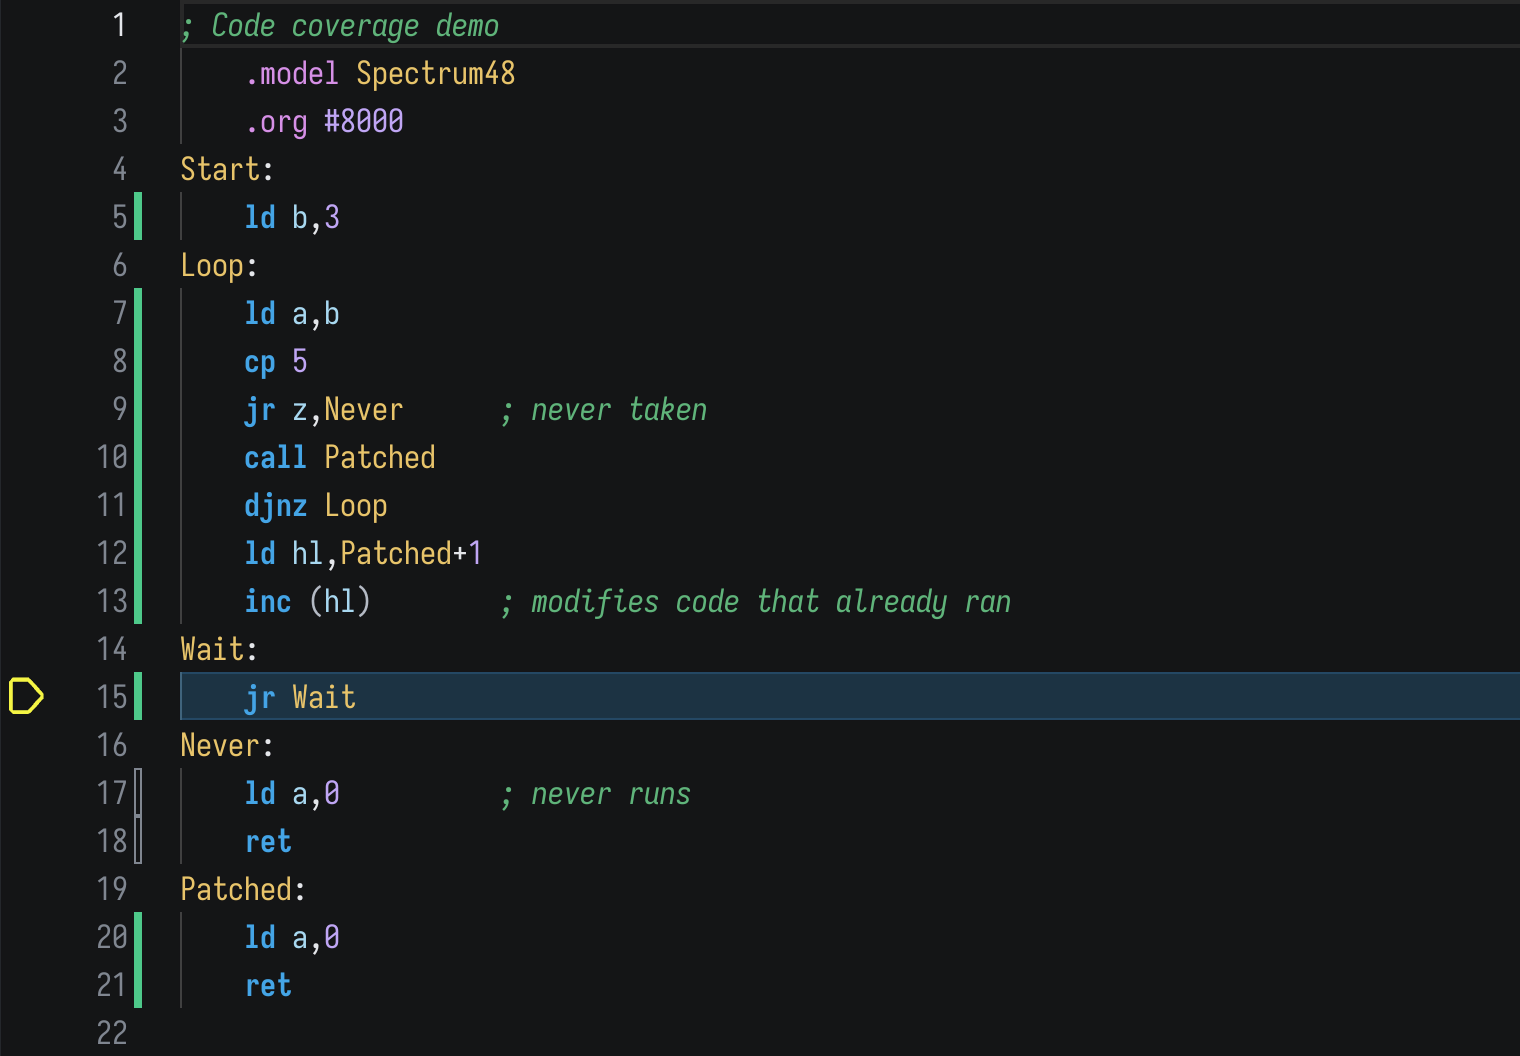
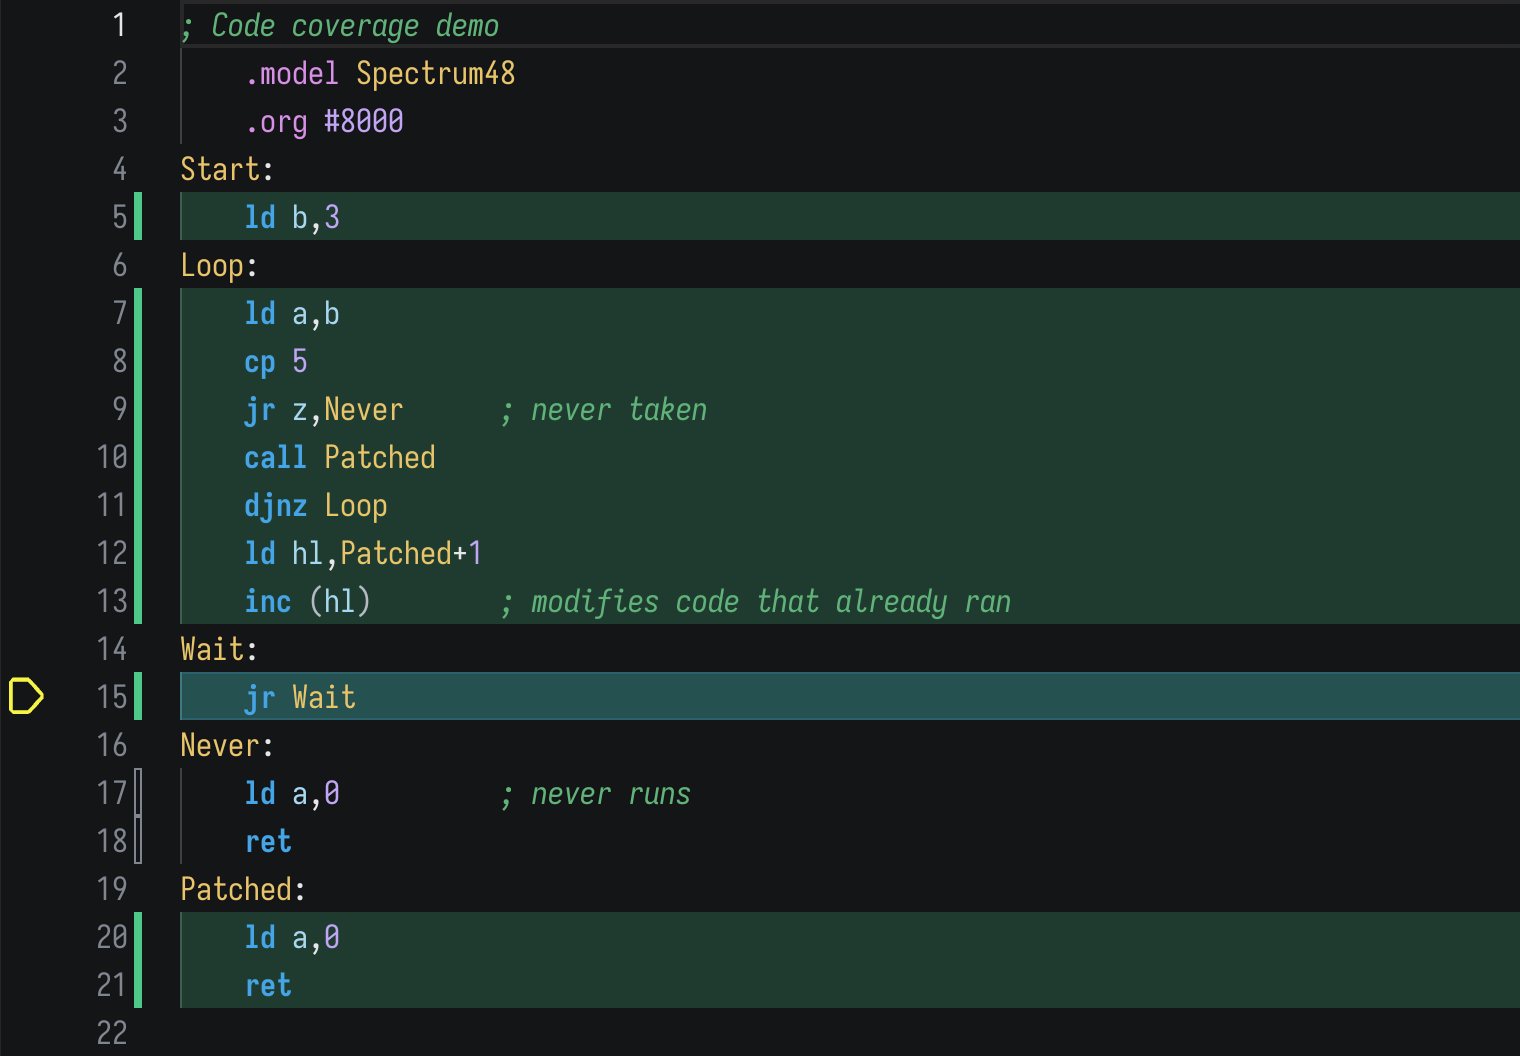
Add the advanced debugging switch to the Settings dialog (#1643)
Settings › Debugging gets an "Advanced debugging" switch for the
features.advancedDebugging user setting (the one `set -u` writes). The
main process still reads it once at startup, so after a change the row's
help text says Klive must restart. "Tint covered source lines" and
"Profile hints in the editor" now default to on, so every switch of the
group is on by default.

The guides point to the new row, and the code coverage editor shot is
regenerated with the tint (its recipe keeps the profile hints out of it).

diff --git a/src/common/settings/settings-pages.ts b/src/common/settings/settings-pages.ts
@@ -10,7 +10,11 @@
  *    `set:` UI action of the same key (`MainApi.runUiAction`, `src/main/ui-actions.ts`).
  * File rows (ROMs, the key mapping) show a value and offer buttons, which run UI actions.
  */
-import { hasMachineFeature, isAdvancedDebuggingEnabled } from "@common/features/advancedDebugging";
+import {
+  hasMachineFeature,
+  isAdvancedDebuggingEnabled,
+  readAdvancedDebuggingSetting
+} from "@common/features/advancedDebugging";
 import type { AppState } from "@state/AppState";
 import type { UiActionId } from "./ui-action-ids";
 import { KliveGlobalSettings } from "./setting-definitions";
@@ -166,6 +170,7 @@ export type SettingsStateKey =
   | "sp48Rom"
   | "keyMappingFile"
   | "automationEnabled"
+  | "advancedDebugging"
   | "automationLevel"
   | "basicCompiler"
   | "borielInstallation"
@@ -780,6 +785,19 @@ export const SETTINGS_ROWS: SettingsRow[] = [
     editor: "switch",
     source: setting(SETTING_IDE_BP_GROUP_BY_KIND)
   },
+  // --- The advanced-debugging switch (`@common/features/advancedDebugging`): a user setting, read once
+  // --- at startup, so a change says it waits for a restart
+  {
+    id: "advancedDebugging",
+    page: "debugging",
+    groupKey: "settings.group.advancedDebugging",
+    titleKey: "settings.debugging.advancedDebugging.title",
+    descriptionKey: "settings.debugging.advancedDebugging.description",
+    describeValue: advancedDebuggingRestartText,
+    editor: "switch",
+    source: state("advancedDebugging"),
+    defaultValue: true
+  },
   // --- Full reverse debugging (`dev/plans/REVERSE_DEBUGGING_PLAN.md` D2, D6)
   {
     id: "reverseDebugging",
@@ -1367,6 +1385,16 @@ function readSetting(appState: AppState | undefined, settingId: string): unknown
   return stored === undefined ? definition?.defaultValue : stored;
 }
 
+/**
+ * The advanced-debugging row's help text while its value differs from the one this session started
+ * with: the switch is read once, at startup, so the change waits for a restart
+ */
+function advancedDebuggingRestartText(value: unknown, appState: AppState | undefined): string | undefined {
+  if (appState?.emulatorState?.advancedDebugging === undefined) return undefined;
+  if (!!value === isAdvancedDebuggingEnabled(appState)) return undefined;
+  return t("settings.debugging.advancedDebugging.restart");
+}
+
 /** What a row shows now */
 export function readSettingsRowValue(row: SettingsRow, appState: AppState | undefined): unknown {
   if (!row.source) return undefined;
@@ -1399,6 +1427,8 @@ export function readSettingsRowValue(row: SettingsRow, appState: AppState | unde
       return appState?.keyMappingFile ?? "";
     case "automationEnabled":
       return parseAutomationSwitch(appState?.userSettings?.automation?.enabled);
+    case "advancedDebugging":
+      return readAdvancedDebuggingSetting(createSettingsReader(appState ?? ({} as AppState)));
     case "automationLevel":
       return parseAutomationLevel(appState?.userSettings?.automation?.level);
     case "basicCompiler":

diff --git a/test/settings/settings-pages.test.ts b/test/settings/settings-pages.test.ts
@@ -235,6 +235,51 @@ describe("the automation rows (`dev/plans/COMMAND_LINE_AUTOMATION_PLAN.md` D4, D
   });
 });
 
+describe("the advanced-debugging row (`@common/features/advancedDebugging`)", () => {
+  it("reads the user setting set -u writes, on while unset", () => {
+    expect(readSettingsRowValue(row("advancedDebugging"), stateOf({}))).toBe(true);
+    const off = stateOf({ userSettings: { features: { advancedDebugging: "0" } } });
+    expect(readSettingsRowValue(row("advancedDebugging"), off)).toBe(false);
+    const on = stateOf({ userSettings: { features: { advancedDebugging: "1" } } });
+    expect(readSettingsRowValue(row("advancedDebugging"), on)).toBe(true);
+  });
+
+  it("shows everywhere, as a switch that defaults to on", () => {
+    const r = row("advancedDebugging");
+    expect(r.page).toBe("debugging");
+    expect(r.editor).toBe("switch");
+    expect(r.defaultValue).toBe(true);
+    expect(isSettingsRowApplicable(r, stateOf({ emulatorState: { advancedDebugging: false } }))).toBe(true);
+  });
+
+  it("says a change waits for a restart", () => {
+    const r = row("advancedDebugging");
+    const startedOn = stateOf({ emulatorState: { advancedDebugging: true } });
+    expect(r.describeValue?.(true, startedOn)).toBeUndefined();
+    expect(r.describeValue?.(false, startedOn)).toMatch(/restart/i);
+    const startedOff = stateOf({ emulatorState: { advancedDebugging: false } });
+    expect(r.describeValue?.(true, startedOff)).toMatch(/restart/i);
+  });
+
+  it("is found by the words a user would search for", () => {
+    expect(settingsRowMatches(row("advancedDebugging"), "advanced")).toBe(true);
+    expect(settingsRowMatches(row("advancedDebugging"), "history")).toBe(true);
+  });
+});
+
+describe("the debugging switches", () => {
+  it("are all on by default", () => {
+    const debuggingSwitches = SETTINGS_ROWS.filter(
+      (r) =>
+        r.editor === "switch" &&
+        ["advancedDebugging", "reverseDebugging", "profileResetOnStart", "profileResetAfterInjection",
+          "profileCounters", "coverageLineTint", "profilerInlays"].includes(r.id)
+    );
+    expect(debuggingSwitches).toHaveLength(7);
+    for (const r of debuggingSwitches) expect(settingsRowDefault(r, undefined), r.id).toBe(true);
+  });
+});
+
 describe("the ZX Spectrum Next's real-time clock rows (`dev/ai/zxnext-rtc.md`)", () => {
   const RTC_ROWS = ["nextRtcClock", "nextRtcKeep", "nextRtcKept"];
 

diff --git a/src/main/ui-actions.ts b/src/main/ui-actions.ts
@@ -72,6 +72,7 @@ import { nextRtcForget, nextRtcSetToHost } from "./zxnext-rtc";
 import { toggleWindowRecording } from "./recording/window-recording/windowRecordingController";
 import { focusEmuWindow, getAppWindows, isIdeWindowFocused, isIdeWindowVisible, showIdeWindow } from ".";
 import { t } from "@common/i18n/i18n";
+import { ADVANCED_DEBUGGING_SETTING } from "@common/features/advancedDebugging";
 
 /** The contributor guide the Language page links to (`src/common/i18n/locales/README.md`) */
 export const TRANSLATION_GUIDE_URL =
@@ -285,6 +286,11 @@ export async function runUiAction(actionId: UiActionId, value?: unknown): Promis
     // --- D4, D7) and starts, stops or re-levels itself when they change
     case "set:automationEnabled":
       applyUserSetting(AUTOMATION_ENABLED_SETTING, value ? "1" : "0");
+      return undefined;
+    // --- The advanced-debugging switch is a user setting, the one `set -u features.advancedDebugging`
+    // --- writes; the main process reads it once, at startup (`@common/features/advancedDebugging`)
+    case "set:advancedDebugging":
+      applyUserSetting(ADVANCED_DEBUGGING_SETTING, value ? "1" : "0");
       return undefined;
     case "set:automationLevel":
       if (!(AUTOMATION_LEVELS as readonly unknown[]).includes(value)) return `Unknown automation level: ${value}`;

diff --git a/src/common/settings/setting-const.ts b/src/common/settings/setting-const.ts
@@ -46,9 +46,9 @@ export const SETTING_EMU_PROFILE_RESET_ON_START = "emuOptions.profileResetOnStar
 export const SETTING_EMU_PROFILE_RESET_AFTER_INJECTION = "emuOptions.profileResetAfterInjection";
 /** Keep execution, read and write counts as well as the flags (D2, Q1): on */
 export const SETTING_EMU_PROFILE_COUNTERS = "emuOptions.profileCounters";
-/** Tint covered source lines' background as well as marking the strip (D12): off */
+/** Tint covered source lines' background as well as marking the strip (D12): on */
 export const SETTING_IDE_COVERAGE_LINE_TINT = "ideViewOptions.coverageLineTint";
-/** The profiler's hints at each routine's first line (`dev/plans/PROFILER_PLAN.md` D15): off */
+/** The profiler's hints at each routine's first line (`dev/plans/PROFILER_PLAN.md` D15): on */
 export const SETTING_IDE_PROFILER_INLAYS = "ideViewOptions.profilerInlays";
 /** The TR-DOS ROM file the Pentagon's Beta 128 boots (`dev/plans/BETA128_TRDOS_PLAN.md` Q1): Klive cannot ship it */
 export const SETTING_EMU_TRDOS_ROM = "emuOptions.trdosRomFile";

diff --git a/src/common/i18n/translations.generated.ts b/src/common/i18n/translations.generated.ts
@@ -132,9 +132,9 @@ export const TRANSLATED_CATALOGS: Readonly<Record<string, Catalog>> = {
 
 /** How much of English each language translates, and how much of that is outdated */
 export const TRANSLATION_STATUS: Readonly<Record<string, { translated: number; total: number; outdated: number }>> = {
-  "de": { translated: 5820, total: 7108, outdated: 25 },
-  "es": { translated: 5820, total: 7108, outdated: 25 },
-  "hu": { translated: 5820, total: 7108, outdated: 25 },
-  "pt-BR": { translated: 5820, total: 7108, outdated: 25 },
-  "pt-PT": { translated: 5820, total: 7108, outdated: 25 }
+  "de": { translated: 5820, total: 7112, outdated: 25 },
+  "es": { translated: 5820, total: 7112, outdated: 25 },
+  "hu": { translated: 5820, total: 7112, outdated: 25 },
+  "pt-BR": { translated: 5820, total: 7112, outdated: 25 },
+  "pt-PT": { translated: 5820, total: 7112, outdated: 25 }
 };

diff --git a/src/common/i18n/keys.generated.ts b/src/common/i18n/keys.generated.ts
@@ -6761,6 +6761,9 @@ export type MessageKey =
   | "settings.button.manage"
   | "settings.button.reset"
   | "settings.button.setToHostTime"
+  | "settings.debugging.advancedDebugging.description"
+  | "settings.debugging.advancedDebugging.restart"
+  | "settings.debugging.advancedDebugging.title"
   | "settings.debugging.coverageLineTint.description"
   | "settings.debugging.coverageLineTint.title"
   | "settings.debugging.groupBreakpoints.title"
@@ -6858,6 +6861,7 @@ export type MessageKey =
   | "settings.general.navRecordTabSwitch.description"
   | "settings.general.navRecordTabSwitch.title"
   | "settings.general.openLastProject.title"
+  | "settings.group.advancedDebugging"
   | "settings.group.assemblers"
   | "settings.group.assistance"
   | "settings.group.automation"

diff --git a/src/common/settings/setting-definitions.ts b/src/common/settings/setting-definitions.ts
@@ -515,7 +515,7 @@ const settingDefinitions: Setting[] = [
     title: "Tint Covered Source Lines",
     description: "Covered source lines get a tinted background as well as the coverage strip.",
     type: "boolean",
-    defaultValue: false,
+    defaultValue: true,
     saveWithIde: true,
     boundTo: "ide"
   },
@@ -526,7 +526,7 @@ const settingDefinitions: Setting[] = [
       "With a profile present, each routine's first line shows its share of the time and its calls " +
       "(\"9.4% · 1,204 calls\").",
     type: "boolean",
-    defaultValue: false,
+    defaultValue: true,
     saveWithIde: true,
     boundTo: "ide"
   },

diff --git a/src/common/settings/ui-action-ids.ts b/src/common/settings/ui-action-ids.ts
@@ -24,6 +24,7 @@ export type UiActionId =
   | "set:windowRecordingClicks"
   | "set:windowRecordingHiDpi"
   | "set:automationEnabled"
+  | "set:advancedDebugging"
   | "set:automationLevel"
   | "set:basicCompiler"
   | "set:z88dkCompiler"

diff --git a/dev/changes/advanced-debugging-settings-dialog-settings-5cb8.md b/dev/changes/advanced-debugging-settings-dialog-settings-5cb8.md
@@ -1,0 +1,8 @@
+---
+type: feature
+---
+
+**Advanced debugging in the Settings dialog:** Settings › Debugging has an *Advanced debugging*
+switch that turns the execution history, reverse debugging, debug recordings, code coverage and the
+profiler on or off, as `set -u features.advancedDebugging` does; the change takes effect when Klive
+restarts. *Tint covered source lines* and *Profile hints in the editor* are now on by default.
